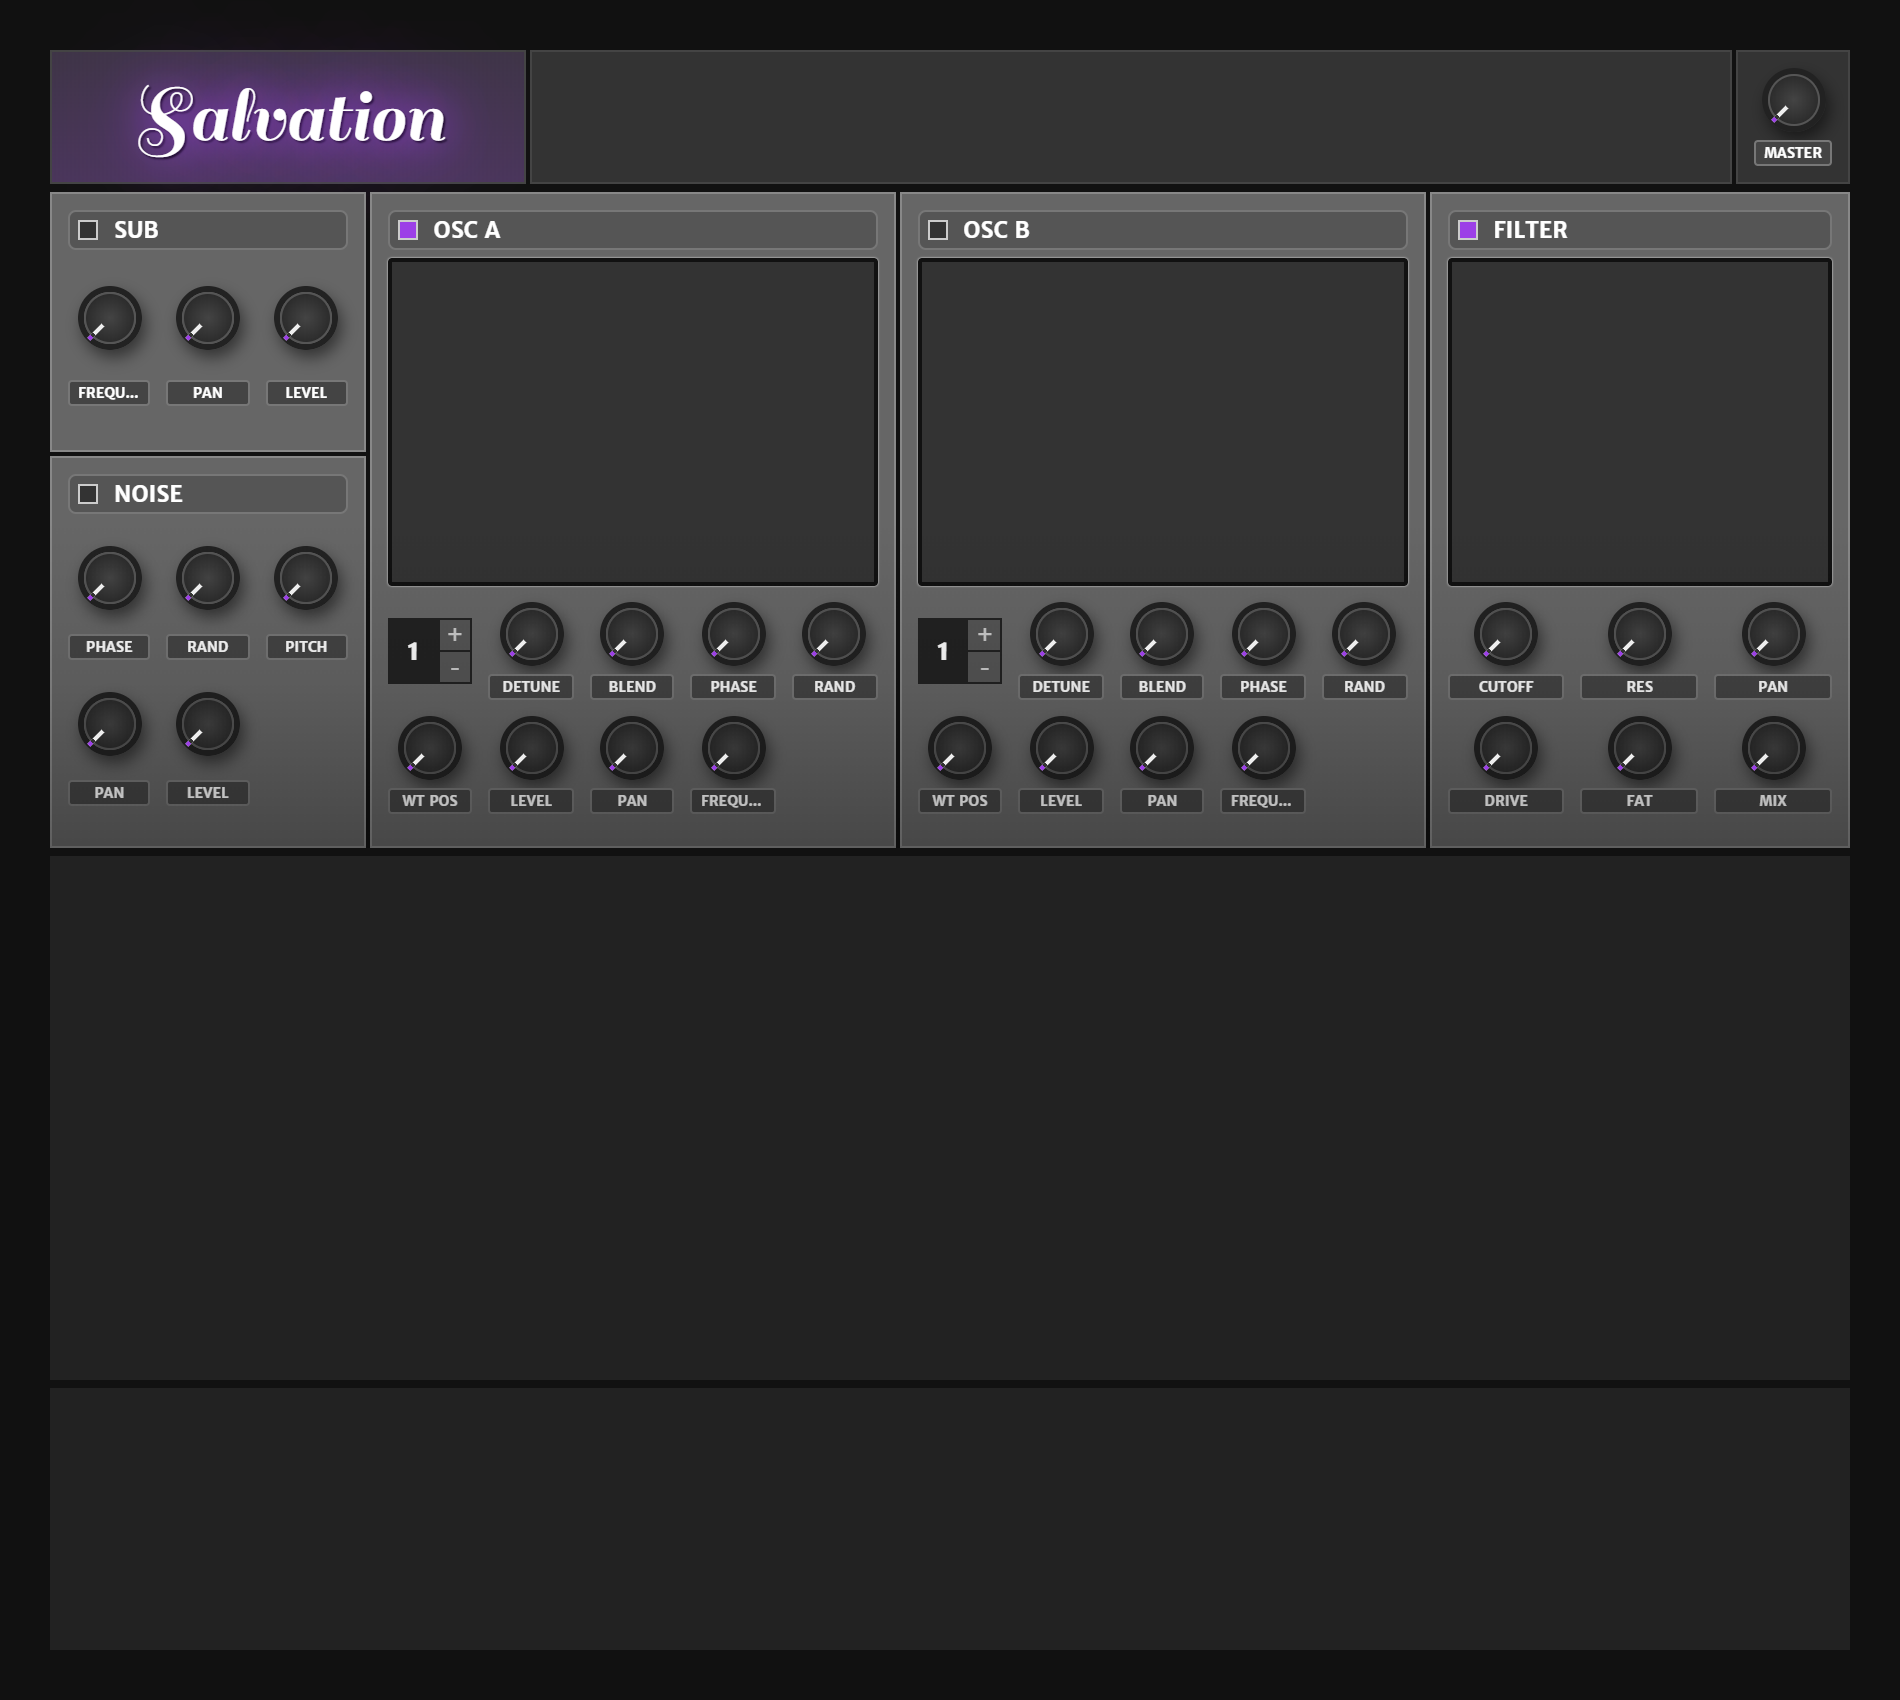
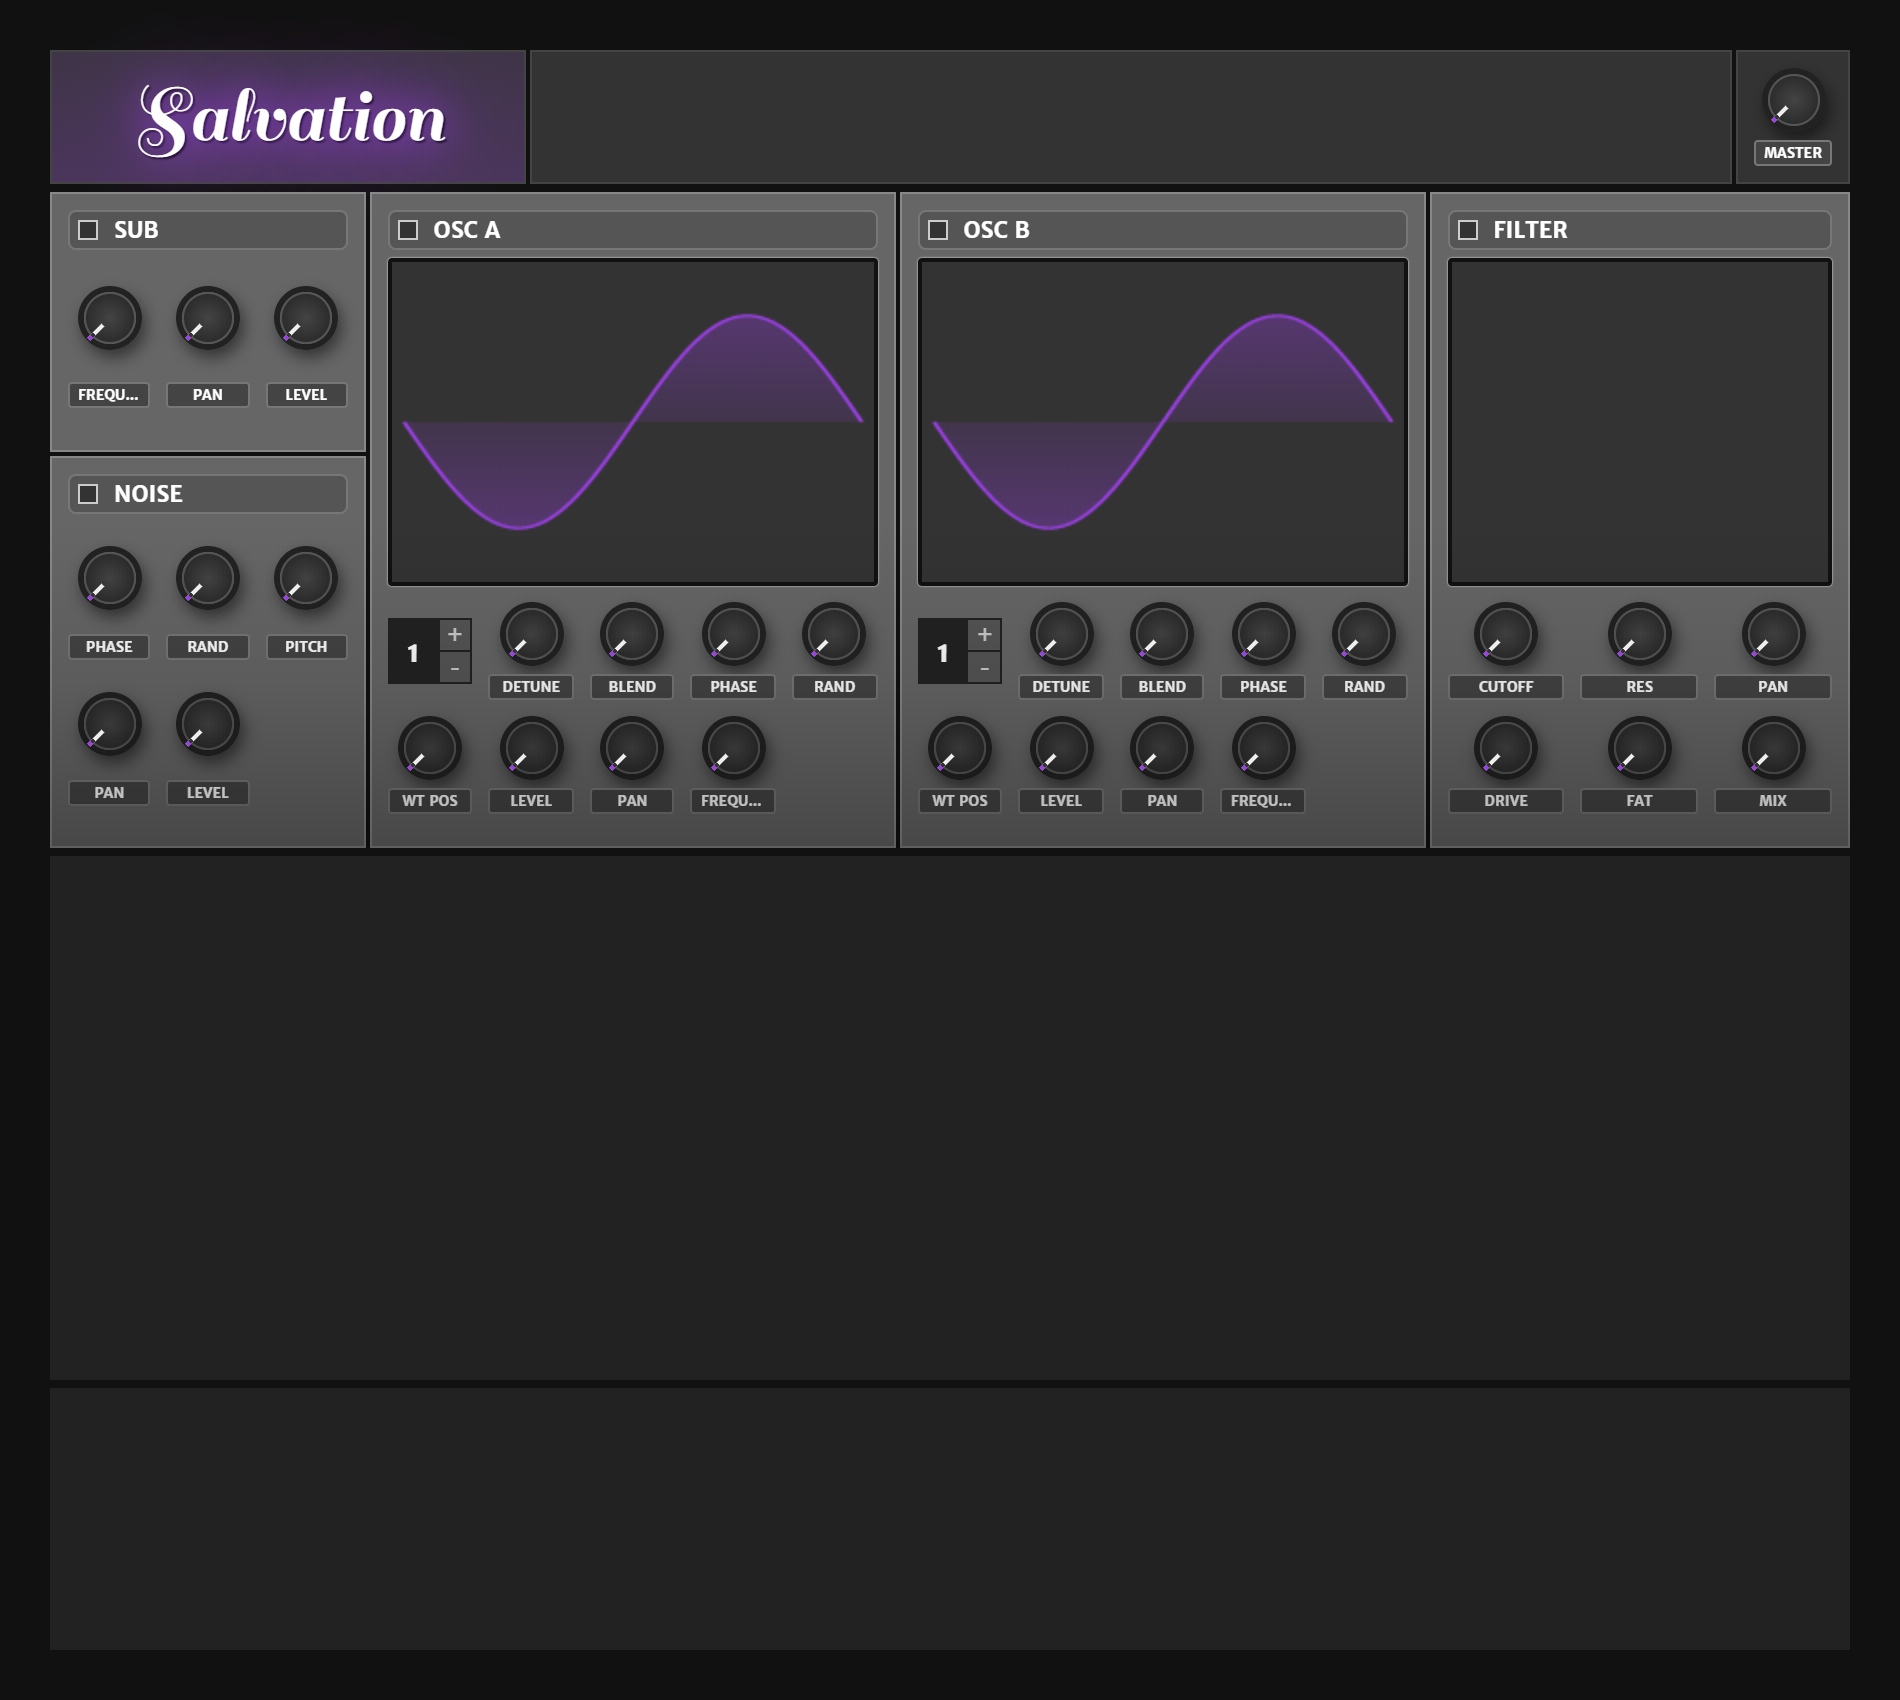
draw wave shape

diff --git a/src/index.tsx b/src/index.tsx
@@ -1,7 +1,7 @@
 import { autorun, observable } from "mobx";
 import { observer } from "mobx-react";
 import "mobx-react-lite/batchingForReactDom";
-import React from "react";
+import React, { useRef, useLayoutEffect } from "react";
 import ReactDOM from "react-dom";
 
 namespace Salvation {
@@ -18,6 +18,9 @@ namespace Salvation {
       noise!: Noise;
       oscA!: Oscillator;
       oscB!: Oscillator;
+
+      waveA: Wave = new SineWave();
+      waveB: Wave = new SineWave();
 
       async init() {
         // TODO handle context creation failure
@@ -242,6 +245,18 @@ namespace Salvation {
       readonly gainNode = new GainNode(this.audioContext, {
         gain: 0,
       });
+    }
+
+    export abstract class Wave {
+      get(t: number) {
+        return 0;
+      }
+    }
+
+    export class SineWave extends Wave {
+      get(t: number) {
+        return Math.sin(t * 2 * Math.PI);
+      }
     }
   }
 
@@ -470,7 +485,7 @@ namespace Salvation {
             gridTemplateRows: "1fr auto",
           }}
         >
-          <WavePanel osc={state.oscA} />
+          <WavePanel wave={state.waveA} />
           <div
             style={{
               display: "grid",
@@ -509,7 +524,7 @@ namespace Salvation {
             gridTemplateRows: "1fr auto",
           }}
         >
-          <WavePanel osc={state.oscB} />
+          <WavePanel wave={state.waveB} />
           <div
             style={{
               display: "grid",
@@ -776,16 +791,59 @@ namespace Salvation {
       }
     );
 
-    const WavePanel = ({ osc }: { osc: Audio.Oscillator }) => (
-      <div
-        style={{
-          background: "#333",
-          border: "2px solid #111",
-          boxShadow: "0 0 1px white",
-          borderRadius: 2,
-        }}
-      ></div>
-    );
+    const WavePanel = ({ wave }: { wave: Audio.Wave }) => {
+      const canvasRef = useRef<HTMLCanvasElement | null>(null);
+
+      useLayoutEffect(() => {
+        requestAnimationFrame(() => {
+          const ctx = canvasRef.current!.getContext("2d")!;
+          let {
+            clientWidth: width,
+            clientHeight: height,
+          } = ctx.canvas.parentElement!;
+          ctx.canvas.width = width;
+          ctx.canvas.height = height;
+          ctx.clearRect(0, 0, width, height);
+
+          ctx.translate(width / 2, height / 2);
+          ctx.scale(0.95, height / width);
+          ctx.translate(-width / 2, -height / 2);
+
+          ctx.beginPath();
+          ctx.moveTo(0, height / 2);
+          for (let t = 0; t <= 1; t += 1e-3) {
+            ctx.lineTo(width * t, (height / 2) * (1 + wave.get(t)));
+          }
+          ctx.lineTo(width, height / 2);
+
+          const gradient = ctx.createLinearGradient(0, 0, 0, height);
+          gradient.addColorStop(0, "#9c3fe755");
+          gradient.addColorStop(0.5, "#9c3fe711");
+          gradient.addColorStop(1, "#9c3fe755");
+          ctx.fillStyle = gradient;
+          ctx.fill();
+
+          ctx.lineWidth = 2;
+          ctx.strokeStyle = "#9c3fe7";
+          ctx.stroke();
+        });
+      }, [canvasRef]);
+
+      return (
+        <div
+          style={{
+            background: "#333",
+            border: "2px solid #111",
+            boxShadow: "0 0 1px white",
+            borderRadius: 2,
+            display: "flex",
+            overflow: "hidden",
+          }}
+        >
+          <canvas ref={canvasRef} style={{ flex: 1 }} />
+        </div>
+      );
+    };
 
     const FilterPanel = () => (
       <div
